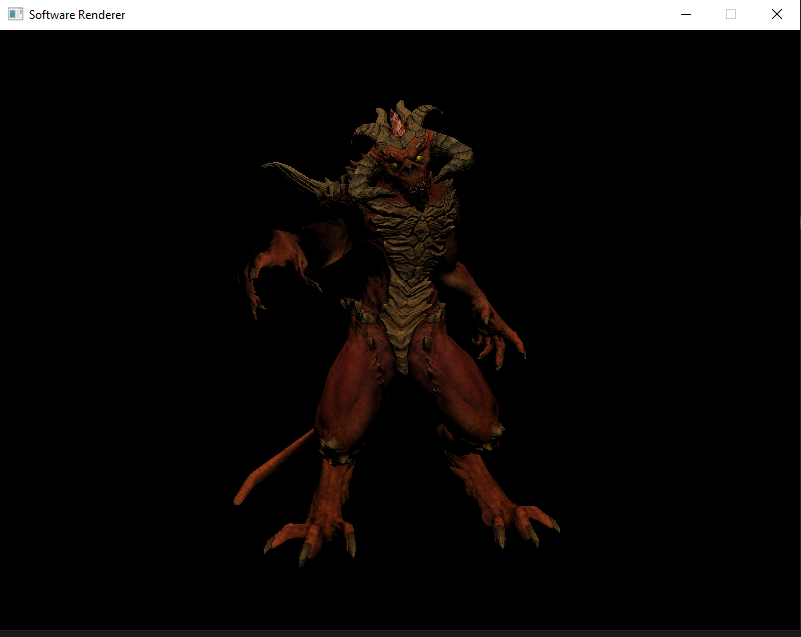
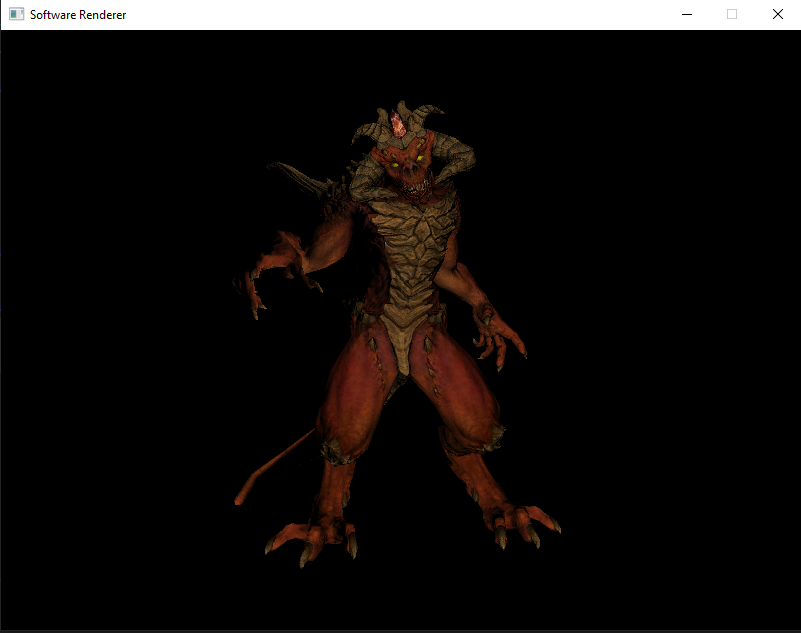
change result images

diff --git a/src/renderer.cc b/src/renderer.cc
@@ -57,7 +57,7 @@ void Renderer::Init() {
 void Renderer::Loop() {
   std::clog << "----- Renderer::Loop -----" << std::endl;
 
-  Vec3f light(0.f, 1.f, 1.f);
+  Vec3f light(0.f, 0.f, 1.f);
 
   Vec3f eye(0.f, 0.f, 3.f);
   Vec3f center(0.0f, 0.0f, 0.f);
@@ -73,7 +73,7 @@ void Renderer::Loop() {
       Viewport(static_cast<float>(WIDTH), static_cast<float>(HEIGHT));
 
   // Shader
-  this->shader_ = new PhongShader();
+  this->shader_ = new Shader();
 
   // Uniform data for shader
   this->shader_->SetVec3f(Vector::EYE, eye);
